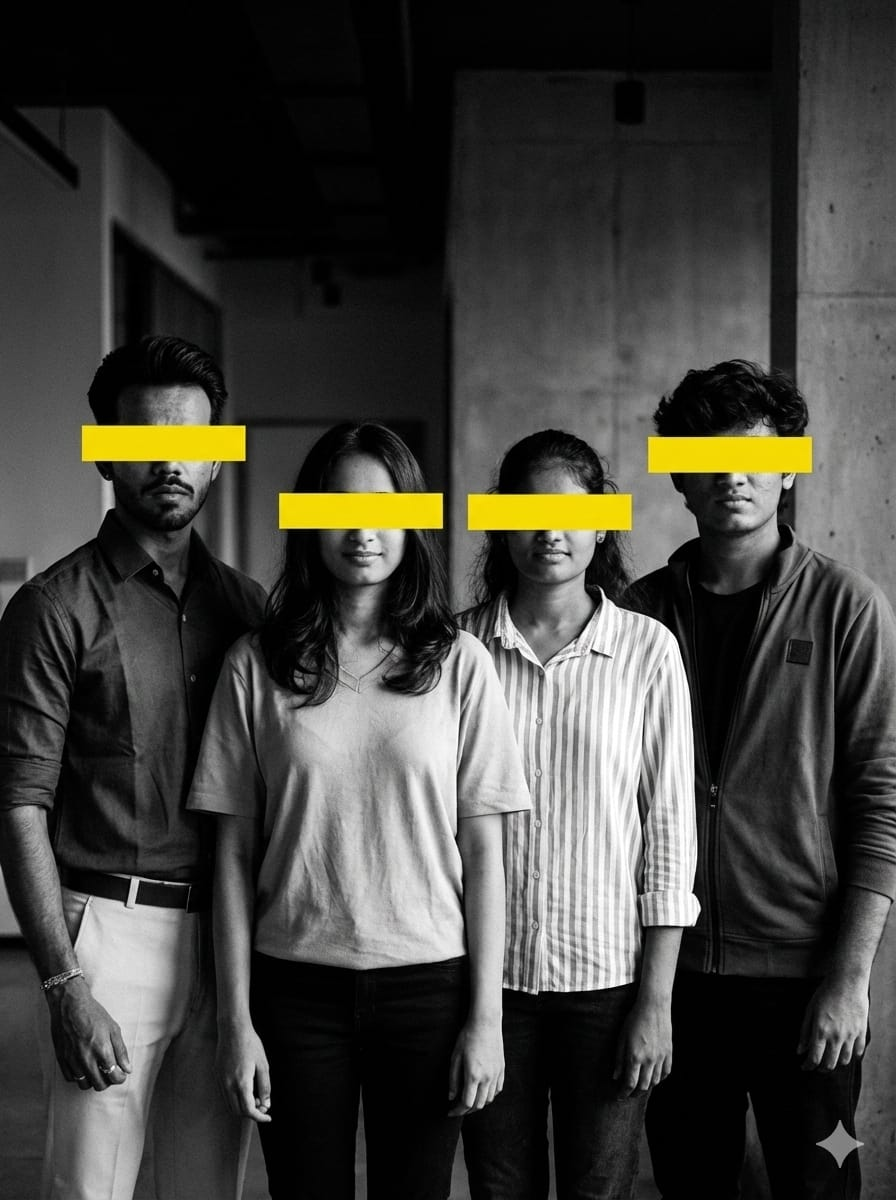
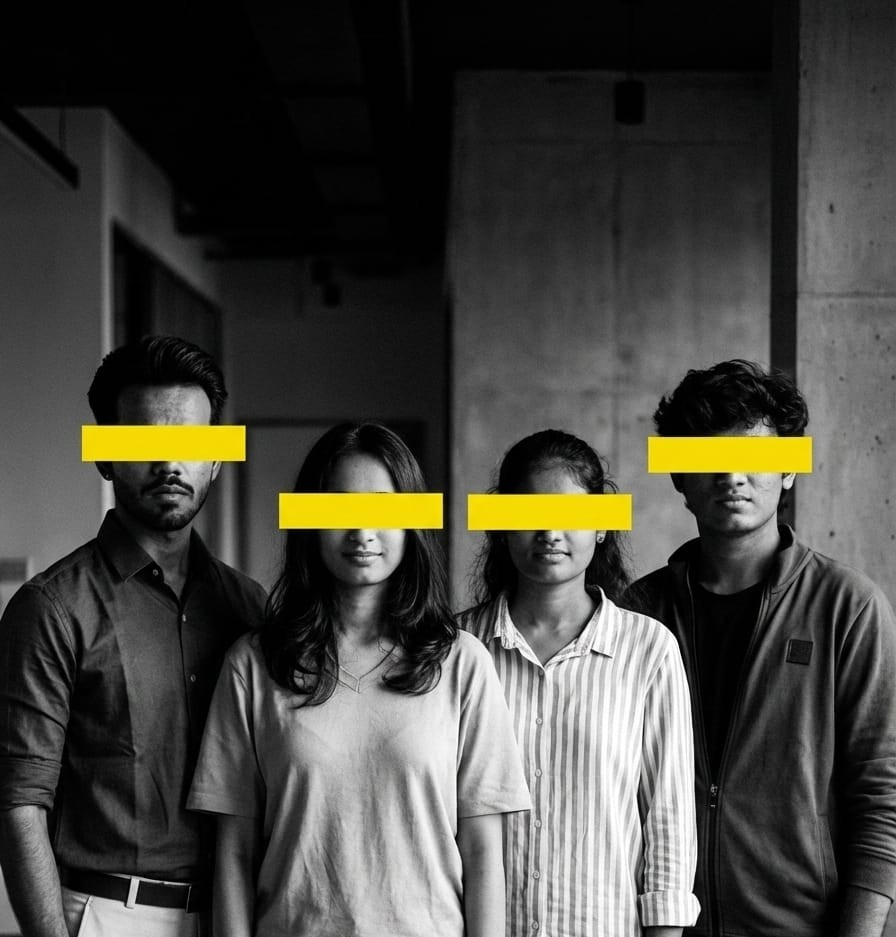
added team section

diff --git a/src/Components/Clients.jsx b/src/Components/Clients.jsx
@@ -1,0 +1,110 @@
+import React from "react";
+import BlurText from "../effects/BlurText";
+import teamBg from "../assets/team.jpeg";
+
+const teamData = [
+  {
+    id: 1,
+    name: "Athrava Pathak",
+    role: "AI/ML Engineer",
+    skills: ["Python", "TensorFlow", "UI/UX"],
+  },
+  {
+    id: 2,
+    name: "Rajeshwari Meti",
+    role: "Web Designer",
+    skills: ["Figma", "UI/UX", "CSS"],
+  },
+  {
+    id: 3,
+    name: "Sanika Jagpat",
+    role: "Product Designer",
+    skills: ["Figma", "UX Research"],
+  },
+  {
+    id: 4,
+    name: "Dhruv Taraviya",
+    role: "Full Stack Developer",
+    skills: ["MongoDB", "React", "Node.js"],
+  },
+];
+
+export default function Clients() {
+  return (
+    <section
+      className="relative w-full min-h-screen overflow-hidden"
+      style={{ fontFamily: "BBH Bogle" }}
+    >
+      {/* Heading */}
+      <div className="relative z-20 px-4 pt-10 md:px-16">
+        <BlurText
+          text="Meet Our Team"
+          delay={150}
+          animateBy="words"
+          direction="top"
+          className="text-[#F9E400] tracking-wide text-3xl sm:text-8xl font-bold mb-6"
+        />
+      </div>
+
+      {/* ================= MOBILE VIEW ================= */}
+      <div className="md:hidden relative w-full h-screen overflow-x-auto snap-x snap-mandatory">
+        <div
+          className="relative h-full flex"
+          style={{
+            width: `${teamData.length * 100}vw`,
+            backgroundImage: `url(${teamBg})`,
+            backgroundSize: "cover",
+            backgroundPosition: "center",
+          }}
+        >
+          {/* Dark overlay */}
+          <div className="absolute inset-0 bg-black/60 z-0" />
+
+          {teamData.map((person) => (
+            <div
+              key={person.id}
+              className="relative w-screen h-full snap-center flex items-end z-10"
+            >
+              {/* ALWAYS visible info */}
+              <div className="w-full px-4 pb-10">
+                <div className="bg-white/25 backdrop-blur-lg rounded-2xl p-4 text-white text-sm font-mono shadow-2xl">
+                  <pre className="whitespace-pre-wrap">
+                    {JSON.stringify(person, null, 2)}
+                  </pre>
+                </div>
+              </div>
+            </div>
+          ))}
+        </div>
+      </div>
+
+      {/* ================= DESKTOP VIEW ================= */}
+      <div
+        className="hidden md:block absolute inset-0 bg-cover bg-center"
+        style={{ backgroundImage: `url(${teamBg})` }}
+      >
+        {/* Dark overlay */}
+        <div className="absolute inset-0 bg-black/60" />
+
+        {/* Hover zones */}
+        <div className="relative z-10 h-full grid grid-cols-4 px-16 gap-6">
+          {teamData.map((person) => (
+            <div
+              key={person.id}
+              className="group relative flex items-end pb-12"
+            >
+              {/* Hover-only card */}
+              <div className="w-full opacity-0 group-hover:opacity-100 transition-all duration-300">
+                <div className="bg-white/20 backdrop-blur-md rounded-2xl p-4 text-white text-sm font-mono shadow-xl">
+                  <pre className="whitespace-pre-wrap">
+                    {JSON.stringify(person, null, 2)}
+                  </pre>
+                </div>
+              </div>
+            </div>
+          ))}
+        </div>
+      </div>
+    </section>
+  );
+}

diff --git a/src/effects/BlurText.jsx b/src/effects/BlurText.jsx
@@ -1,0 +1,103 @@
+import { motion } from 'motion/react';
+import { useEffect, useRef, useState, useMemo } from 'react';
+
+const buildKeyframes = (from, steps) => {
+  const keys = new Set([...Object.keys(from), ...steps.flatMap(s => Object.keys(s))]);
+
+  const keyframes = {};
+  keys.forEach(k => {
+    keyframes[k] = [from[k], ...steps.map(s => s[k])];
+  });
+  return keyframes;
+};
+
+const BlurText = ({
+  text = '',
+  delay = 200,
+  className = '',
+  animateBy = 'words',
+  direction = 'top',
+  threshold = 0.1,
+  rootMargin = '0px',
+  animationFrom,
+  animationTo,
+  easing = t => t,
+  onAnimationComplete,
+  stepDuration = 0.35
+}) => {
+  const elements = animateBy === 'words' ? text.split(' ') : text.split('');
+  const [inView, setInView] = useState(false);
+  const ref = useRef(null);
+
+  useEffect(() => {
+    if (!ref.current) return;
+    const observer = new IntersectionObserver(
+      ([entry]) => {
+        if (entry.isIntersecting) {
+          setInView(true);
+          observer.unobserve(ref.current);
+        }
+      },
+      { threshold, rootMargin }
+    );
+    observer.observe(ref.current);
+    return () => observer.disconnect();
+    // eslint-disable-next-line react-hooks/exhaustive-deps
+  }, [threshold, rootMargin]);
+
+  const defaultFrom = useMemo(
+    () =>
+      direction === 'top' ? { filter: 'blur(10px)', opacity: 0, y: -50 } : { filter: 'blur(10px)', opacity: 0, y: 50 },
+    [direction]
+  );
+
+  const defaultTo = useMemo(
+    () => [
+      {
+        filter: 'blur(5px)',
+        opacity: 0.5,
+        y: direction === 'top' ? 5 : -5
+      },
+      { filter: 'blur(0px)', opacity: 1, y: 0 }
+    ],
+    [direction]
+  );
+
+  const fromSnapshot = animationFrom ?? defaultFrom;
+  const toSnapshots = animationTo ?? defaultTo;
+
+  const stepCount = toSnapshots.length + 1;
+  const totalDuration = stepDuration * (stepCount - 1);
+  const times = Array.from({ length: stepCount }, (_, i) => (stepCount === 1 ? 0 : i / (stepCount - 1)));
+
+  return (
+    <p ref={ref} className={`blur-text ${className} flex flex-wrap`}>
+      {elements.map((segment, index) => {
+        const animateKeyframes = buildKeyframes(fromSnapshot, toSnapshots);
+
+        const spanTransition = {
+          duration: totalDuration,
+          times,
+          delay: (index * delay) / 1000
+        };
+        spanTransition.ease = easing;
+
+        return (
+          <motion.span
+            className="inline-block will-change-[transform,filter,opacity]"
+            key={index}
+            initial={fromSnapshot}
+            animate={inView ? animateKeyframes : fromSnapshot}
+            transition={spanTransition}
+            onAnimationComplete={index === elements.length - 1 ? onAnimationComplete : undefined}
+          >
+            {segment === ' ' ? '\u00A0' : segment}
+            {animateBy === 'words' && index < elements.length - 1 && '\u00A0'}
+          </motion.span>
+        );
+      })}
+    </p>
+  );
+};
+
+export default BlurText;

diff --git a/src/Components/About.jsx b/src/Components/About.jsx
@@ -208,23 +208,24 @@ export default function About() {
         </div>
 
         {/* RIGHT SIDE — PORTRAIT IMAGE */}
-        <div className="flex items-center justify-center">
+        <div className="sm:flex items-center justify-center hidden">
           <div
             className="
               relative
-              w-[320px] sm:w-[380px]
-              h-[480px] sm:h-[540px]
+              w-[650px] sm:w-[520px]
+              h-[600px] sm:h-[480px]
               rounded-2xl
               overflow-hidden
               bg-white/10
               backdrop-blur-md
               shadow-2xl
+              
             "
           >
             <img
               src="src/assets/team.jpeg"
               alt="Portrait"
-              className="w-full h-full object-center grayscale hover:grayscale-0 "
+              className="w-full h-full object-cover grayscale hover:grayscale-0 "
             />
           </div>
         </div>

diff --git a/src/App.jsx b/src/App.jsx
@@ -4,6 +4,7 @@ import Nav from "./Components/Nav.jsx";
 import Main from "./Components/Main.jsx";
 import About from "./Components/About.jsx";
 import Loader from "./Components/Loader.jsx";
+import Clients from "./Components/Clients.jsx";
 
 
 function App() {
@@ -36,7 +37,7 @@ function App() {
       <Nav />
       <Main />
       <About />
-      
+      <Clients />
       <audio ref={audioRef} src="/audio/music.mp3" loop />
     </>
   );

diff --git a/src/Components/Main.jsx b/src/Components/Main.jsx
@@ -75,7 +75,7 @@ export default function Main() {
         </p>
 
         {/* Button */}
-        <div className="flex gap-2 items-center justify-center ">
+        <div className="flex gap-2 items-center tracking-wider justify-center ">
           <a
             href="#explore"
             className="bg-[#F9E400] text-black px-8 py-3 rounded-full text-lg font-semibold hover:bg-[#7C00FE] hover:text-white "
